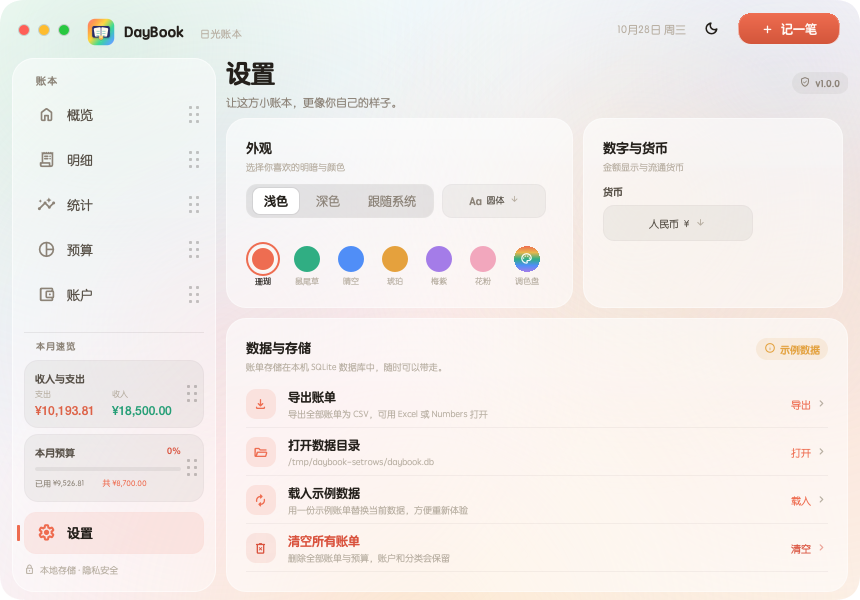
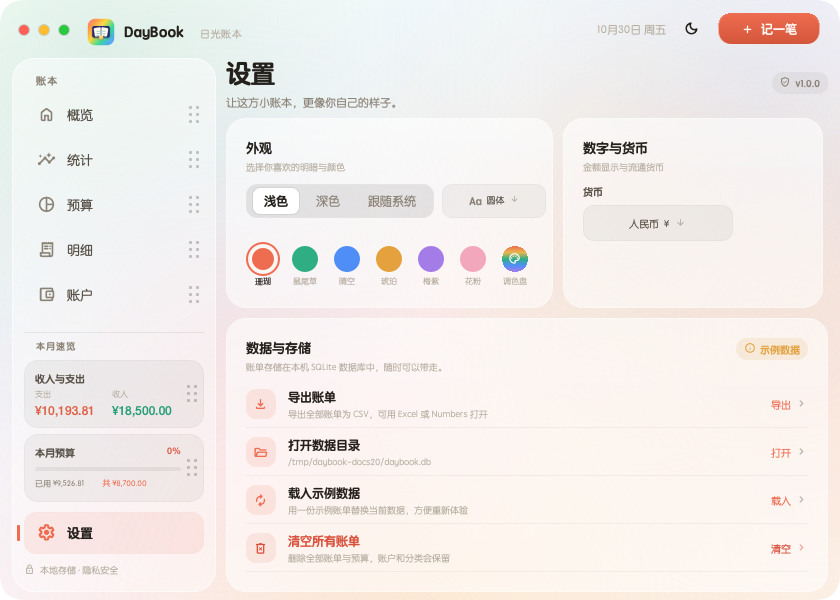
上一次提交修复了dailyup切换主题时点击渗透底层bug

diff --git a/DayBook/qml/pages/TransactionsPage.qml b/DayBook/qml/pages/TransactionsPage.qml
@@ -114,17 +114,13 @@ Item {
                 Text {
                     text: App.transactions.hasActiveFilters
                           ? "筛选后 " + App.transactions.transactionCount + " 笔账单"
-                          : "这个月，每一笔都有迹可循"
+                          : "所有账单，按时序排列"
                     color: Theme.muted
                     font.family: Theme.fontFamily
                     font.pixelSize: 11
                 }
             }
 
-            MonthSwitcher {
-                anchors.right: parent.right
-                anchors.verticalCenter: parent.verticalCenter
-            }
         }
 
         Item {
@@ -203,7 +199,7 @@ Item {
                     spacing: 5
                     Rectangle { width: 5; height: 5; radius: 3; color: Theme.income; anchors.verticalCenter: parent.verticalCenter }
                     Text {
-                        text: "收入 " + App.money(App.monthIncome)
+                        text: "收入 " + App.money(page.accountView ? App.accountBills.totalIncome : App.transactions.totalIncome)
                         color: Theme.inkSecondary
                         font.family: Theme.numberFamily
                         font.pixelSize: 10
@@ -214,7 +210,7 @@ Item {
                     spacing: 5
                     Rectangle { width: 5; height: 5; radius: 3; color: Theme.expense; anchors.verticalCenter: parent.verticalCenter }
                     Text {
-                        text: "支出 " + App.money(App.monthExpense)
+                        text: "支出 " + App.money(page.accountView ? App.accountBills.totalExpense : App.transactions.totalExpense)
                         color: Theme.inkSecondary
                         font.family: Theme.numberFamily
                         font.pixelSize: 10
@@ -248,7 +244,7 @@ Item {
                         anchors.verticalCenter: parent.verticalCenter
                         text: page.accountView
                               ? "账户账单"
-                              : (App.transactions.hasActiveFilters ? "筛选结果" : "本月账单")
+                              : (App.transactions.hasActiveFilters ? "筛选结果" : "账单明细")
                         color: Theme.ink
                         font.family: Theme.fontFamily
                         font.pixelSize: 12
@@ -330,26 +326,7 @@ Item {
                     model: page.accountView ? App.accountBills : App.transactions
                     spacing: 0
                     cacheBuffer: 500
-                    boundsBehavior: Flickable.OvershootBounds
-                    property real monthPull: 0
-
-                    onMovementStarted: monthPull = 0
-                    onVerticalOvershootChanged: {
-                        if (moving)
-                            monthPull = Math.max(monthPull, Math.abs(verticalOvershoot))
-                    }
-                    onMovementEnded: {
-                        if (monthPull > 34 && contentHeight > height + 4) {
-                            if (atYEnd) {
-                                App.shiftMonth(-1)
-                                Qt.callLater(function() { list.positionViewAtEnd() })
-                            } else if (atYBeginning) {
-                                App.shiftMonth(1)
-                                Qt.callLater(function() { list.positionViewAtBeginning() })
-                            }
-                        }
-                        monthPull = 0
-                    }
+                    boundsBehavior: Flickable.StopAtBounds
 
                     delegate: Item {
                         width: list.width
@@ -452,13 +429,13 @@ Item {
                     width: parent.width
                     icon: page.accountView ? "receipt_long"
                                           : (App.transactions.hasActiveFilters ? "search" : "receipt_long")
-                    title: page.accountView ? "该账户本月还没有账单"
-                                           : (App.transactions.hasActiveFilters ? "没有找到相关账单" : "这个月还没有账单")
+                    title: page.accountView ? "该账户还没有账单"
+                                           : (App.transactions.hasActiveFilters ? "没有找到相关账单" : "还没有账单")
                     description: page.accountView
                                  ? "换一个账户看看，或者先记一笔。"
                                  : (App.transactions.hasActiveFilters
                                     ? "换一个关键词，或者把筛选条件清空看看。"
-                                    : "记下第一笔，让这个月开始有迹可循。")
+                                    : "记录过的账单会按时间排列在这里。")
                     actionText: !page.accountView && App.transactions.hasActiveFilters ? "清除筛选" : "记一笔"
                     actionIcon: !page.accountView && App.transactions.hasActiveFilters ? "refresh" : "add"
                     onActionClicked: {

diff --git a/DayBook/qml/components/AccountBillsDialog.qml b/DayBook/qml/components/AccountBillsDialog.qml
@@ -18,7 +18,7 @@ Popup {
     dim: false
     padding: 22
     focus: true
-    closePolicy: Popup.CloseOnEscape
+    closePolicy: Popup.CloseOnEscape | Popup.CloseOnPressOutside
     anchors.centerIn: Overlay.overlay
     Overlay.modal: Rectangle { color: "transparent" }
 
@@ -44,7 +44,7 @@ Popup {
         accountId = id
         accountName = name
         accountColor = color
-        App.setAccountBillsAccount(id)
+        App.setAccountAllBillsAccount(id)
         open()
     }
 
@@ -66,7 +66,7 @@ Popup {
                 anchors.left: parent.left
                 anchors.leftMargin: 16
                 anchors.verticalCenter: parent.verticalCenter
-                text: root.accountName + " · 本月流水"
+                text: root.accountName + " · 全部流水"
                 color: Theme.ink
                 font.family: Theme.fontFamily
                 font.pixelSize: 19
@@ -88,19 +88,19 @@ Popup {
             anchors.topMargin: 44
             spacing: 18
             Text {
-                text: App.accountBills.transactionCount + " 笔账单"
+                text: App.accountAllBills.transactionCount + " 笔账单"
                 color: Theme.faint
                 font.family: Theme.numberFamily
                 font.pixelSize: 10
             }
             Text {
-                text: "支出 " + App.money(App.accountBills.totalExpense)
+                text: "支出 " + App.money(App.accountAllBills.totalExpense)
                 color: Theme.expense
                 font.family: Theme.numberFamily
                 font.pixelSize: 10
             }
             Text {
-                text: "收入 " + App.money(App.accountBills.totalIncome)
+                text: "收入 " + App.money(App.accountAllBills.totalIncome)
                 color: Theme.income
                 font.family: Theme.numberFamily
                 font.pixelSize: 10
@@ -123,7 +123,7 @@ Popup {
             anchors.topMargin: 76
             anchors.bottom: parent.bottom
             clip: true
-            model: App.accountBills
+            model: App.accountAllBills
             spacing: 0
             boundsBehavior: Flickable.StopAtBounds
             cacheBuffer: 500
@@ -204,12 +204,12 @@ Popup {
         }
 
         EmptyState {
-            visible: App.accountBills.transactionCount === 0
+            visible: App.accountAllBills.transactionCount === 0
             anchors.centerIn: parent
             width: parent.width
             icon: "receipt_long"
-            title: "这个月还没有流水"
-            description: "该账户在本月还没有账单记录。"
+            title: "还没有流水"
+            description: "该账户还没有账单记录。"
         }
     }
 }

diff --git a/DayBook/qml/pages/InsightsPage.qml b/DayBook/qml/pages/InsightsPage.qml
@@ -72,16 +72,14 @@ Item {
         ScriptAction { script: page.periodFlipped = !page.periodFlipped }
         NumberAnimation { target: page; property: "periodScale"; from: 0; to: 1; duration: 180; easing.type: Easing.OutCubic }
     }
-    property int trendRange: 1
+    property int trendRange: 0
     property var donutSegments: buildDonut(App.categoryBreakdown)
     property var incomeSegments: buildDonut(App.incomeBreakdown)
 
     Component.onCompleted: {
         flick.contentY = 0
-        if (App.startupModal === "quarter")
-            trendRange = 0
-        else if (App.startupModal === "seven")
-            trendRange = 2
+        if (App.startupModal === "seven")
+            trendRange = 1
         else if (App.startupModal === "income")
             compositionFlipped = true
         else if (App.startupModal === "budgetflip")
@@ -91,15 +89,9 @@ Item {
 
     }
 
-    function trendMonths() {
-        return (App.monthlyTrend || []).slice(-3)
-    }
-
     function trendSeries() {
-        if (trendRange === 0)
-            return App.quarterSeries || []
         let series = App.dailySeries || []
-        if (trendRange === 2)
+        if (trendRange === 1)
             series = series.slice(Math.max(0, series.length - 7))
         return series
     }
@@ -110,14 +102,6 @@ Item {
 
     function trendLabels() {
         return trendSeries().map(function(item) { return item.label })
-    }
-
-    function trendSubtitle() {
-        if (trendRange === 0)
-            return "本季度每日支出"
-        if (trendRange === 2)
-            return "近 7 天每日支出"
-        return "本月每日支出"
     }
 
     function expenseCount() {
@@ -270,7 +254,7 @@ Item {
                                 height: 38
                                 controlHeight: 38
                                 hoverHighlight: false
-                                items: ["本季度", "本月", "近七天"]
+                                items: ["本月", "近七天"]
                                 currentIndex: page.trendRange
                                 onActivated: function(index) { page.trendRange = index }
                             }
@@ -282,7 +266,7 @@ Item {
                             y: 46
                             values: page.trendValues()
                             labels: page.trendLabels()
-                            labelEvery: page.trendRange === 0 ? 10 : (page.trendRange === 2 ? 1 : 0)
+                            labelEvery: page.trendRange === 1 ? 1 : 0
                             lineColor: Theme.expense
                         }
                     }

diff --git a/DayBook/qml/pages/BudgetsPage.qml b/DayBook/qml/pages/BudgetsPage.qml
@@ -85,22 +85,25 @@ Item {
                     lineWidth: 9
                 }
                 Column {
+                    width: parent.width
                     anchors.centerIn: parent
                     spacing: 1
                     Text {
-                        anchors.horizontalCenter: parent.horizontalCenter
+                        width: parent.width
                         text: App.monthBudgetPercent + "%"
                         color: App.monthBudgetSpent > App.monthBudget ? Theme.danger : Theme.ink
                         font.family: Theme.numberFamily
                         font.pixelSize: 20
                         font.weight: 600
+                        horizontalAlignment: Text.AlignHCenter
                     }
                     Text {
-                        anchors.horizontalCenter: parent.horizontalCenter
+                        width: parent.width
                         text: "已使用"
                         color: Theme.faint
                         font.family: Theme.fontFamily
                         font.pixelSize: 8
+                        horizontalAlignment: Text.AlignHCenter
                     }
                 }
             }

diff --git a/DayBook/qml/Main.qml b/DayBook/qml/Main.qml
@@ -7,8 +7,8 @@ import DayBook
 Window {
     id: win
 
-    width: 1200
-    height: 800
+    width: 840
+    height: 600
     minimumWidth: 840
     minimumHeight: 600
     visible: true
@@ -83,6 +83,13 @@ Window {
         currentPage = page
     }
 
+    function centerOnScreen() {
+        if (maximized || visibility === Window.FullScreen)
+            return
+        x = Math.round((Screen.availableWidth - width) / 2)
+        y = Math.round((Screen.availableHeight - height) / 2)
+    }
+
     function toggleMaximize() {
         if (maximized)
             visibility = Window.Windowed
@@ -100,6 +107,7 @@ Window {
     opacity: 0
     Component.onCompleted: {
         opacity = 1
+        Qt.callLater(function() { win.centerOnScreen() })
         if (App.startupModal === "account")
             currentPage = "accounts"
         else if (App.startupModal === "budget")

diff --git a/DayBook/qml/components/BudgetDialog.qml b/DayBook/qml/components/BudgetDialog.qml
@@ -22,7 +22,7 @@ Popup {
     dim: false
     padding: 24
     focus: true
-    closePolicy: Popup.CloseOnEscape
+    closePolicy: Popup.CloseOnEscape | Popup.CloseOnPressOutside
     anchors.centerIn: Overlay.overlay
     Overlay.modal: Rectangle { color: "transparent" }
 
@@ -32,7 +32,12 @@ Popup {
             NumberAnimation { property: "scale"; from: 0.965; to: 1; duration: 190; easing.type: Easing.OutCubic }
         }
     }
-    exit: Transition { NumberAnimation { property: "opacity"; from: 0; to: 1; duration: 110 } }
+    exit: Transition {
+        ParallelAnimation {
+            NumberAnimation { property: "opacity"; from: 1; to: 0; duration: 120; easing.type: Easing.InCubic }
+            NumberAnimation { property: "scale"; from: 1; to: 0.97; duration: 120; easing.type: Easing.InCubic }
+        }
+    }
 
     background: Item {
         Rectangle {

diff --git a/DayBook/qml/components/FlipToggle.qml b/DayBook/qml/components/FlipToggle.qml
@@ -10,7 +10,7 @@ Rectangle {
     implicitWidth: toggleRow.implicitWidth + 18
     implicitHeight: 26
     radius: 9
-    color: toggleMouse.containsMouse ? Theme.surfaceRaised : Theme.surfaceSunken
+    color: toggleMouse.containsMouse ? Theme.withAlpha(Theme.ink, 0.075) : Theme.surfaceSunken
     border.width: 1
     border.color: toggleMouse.containsMouse ? Theme.withAlpha(Theme.accent, 0.28) : Theme.hairline
     Behavior on color { ColorAnimation { duration: 120 } }

diff --git a/DayBook/qml/components/MonthSwitcher.qml b/DayBook/qml/components/MonthSwitcher.qml
@@ -175,7 +175,7 @@ Item {
                             hoverEnabled: true
                             cursorShape: Qt.PointingHandCursor
                             onClicked: {
-                                App.setCurrentMonth(root.monthKey(root.pickerYear, index + 1))
+                                App.currentMonth = root.monthKey(root.pickerYear, index + 1)
                                 picker.close()
                             }
                         }

diff --git a/DayBook/qml/components/SegmentedControl.qml b/DayBook/qml/components/SegmentedControl.qml
@@ -72,7 +72,7 @@ Item {
                     anchors.fill: parent
                     radius: 8
                     color: root.hoverHighlight && mouse.containsMouse && index !== root.currentIndex
-                           ? Theme.withAlpha(Theme.ink, 0.035) : "transparent"
+                           ? Theme.withAlpha(Theme.ink, 0.06) : "transparent"
                 }
                 Text {
                     id: label

diff --git a/DayBook/qml/pages/SettingsPage.qml b/DayBook/qml/pages/SettingsPage.qml
@@ -271,7 +271,7 @@ Item {
                             anchors.bottom: parent.bottom
                             spacing: 0
                             Row {
-                                spacing: 10
+                                spacing: 8
                                 Repeater {
                                     model: page.accentChoices
                                     Item {

diff --git a/DayBook/qml/charts/AreaChart.qml b/DayBook/qml/charts/AreaChart.qml
@@ -18,7 +18,7 @@ Item {
     implicitHeight: 210
 
     readonly property real plotLeft: showAxis ? 38 : 4
-    readonly property real plotRight: 8
+    readonly property real plotRight: showAxis ? 38 : 4
     readonly property real plotTop: 8
     readonly property real plotBottom: showAxis ? 26 : 8
     readonly property real plotWidth: Math.max(1, width - plotLeft - plotRight)

diff --git a/DayBook/qml/components/AboutDialog.qml b/DayBook/qml/components/AboutDialog.qml
@@ -12,7 +12,7 @@ Popup {
     dim: false
     padding: 24
     focus: true
-    closePolicy: Popup.CloseOnEscape
+    closePolicy: Popup.CloseOnEscape | Popup.CloseOnPressOutside
     anchors.centerIn: Overlay.overlay
     Overlay.modal: Rectangle { color: "transparent" }
 
